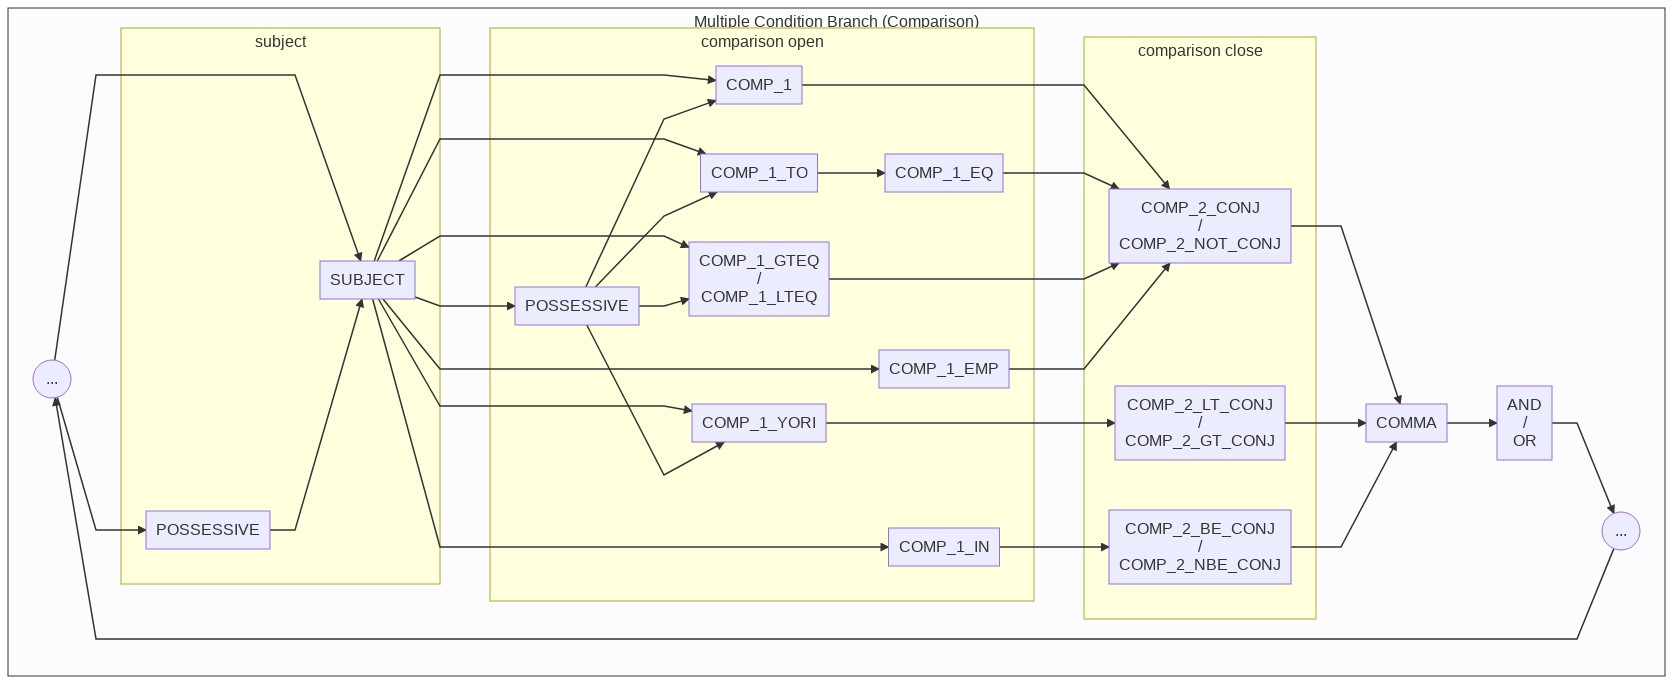
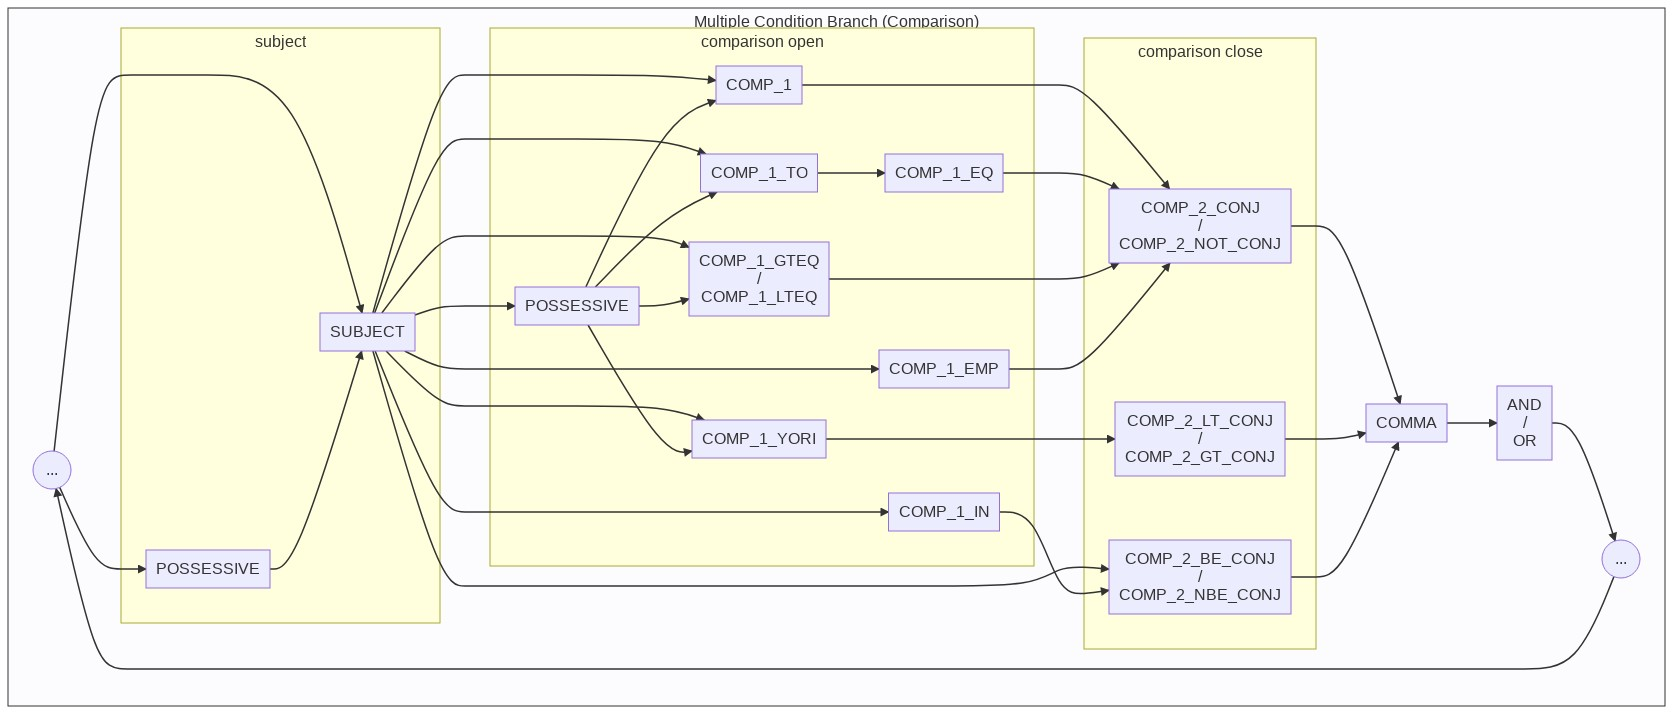
update nfsm and planning doc

diff --git a/documentation/planning.md b/documentation/planning.md
@@ -4,20 +4,6 @@
 
 ## v2.0.0
 
-### Try-Catch
-
-* Try: `試す`
-* Store error in special variable `例外`
-  * Reserve
-* ~~"Catch" is just an if-statement `もし 例外？ ならば`~~
-  - Nah, go with `SUBJECT COMP_2_BE` and tokenize as truthy
-* Abstract `with scope` logic (dup'd in if-statements, loops, whiles)
-* update about (`$?` like Perl)
-* update manual
-* update manual jp
-* update nfsm
-* update syntax
-
 ### Additional Math
 
 Exponentiation
@@ -79,6 +65,14 @@ Write an example for finding number of 1 bits in a number or binary representati
   * move Array / String Properties to just Properties
 * update tests
 * update syntax
+
+## Japanese Errors
+
+* error messages should be in Japanese
+* add option to make them English
+  - maybe `--lang=en`, default `=ja`
+  - group by folder `/ja`, `/en`, etc (allow possibility of other languages)
+* also update README for v2 stuff (look at merged PRs and compare)
 
 ## v2.1.0
 

diff --git a/documentation/nfsm.md b/documentation/nfsm.md
@@ -227,7 +227,7 @@ POSSESSIVE ? SUBJECT
 POSSESSIVE ? (
   ( COMP_1 | (COMP_1_TO COMP_1_EQ) | COMP_1_GTEQ | COMP_1_LTEQ | COMP_1_EMP ) ( COMP_2 | COMP_2_NOT )
   | COMP_1_YORI ( COMP_2_LT | COMP_2_GT )
-  | COMP_1_IN ( COMP_2_BE | COMP_2_NBE )
+  | COMP_1_IN ? ( COMP_2_BE | COMP_2_NBE )
 )
 EOL
 ```
@@ -302,7 +302,7 @@ graph LR
   POSSESSIVE ? (
     ( COMP_1 | ( COMP_1_TO COMP_1_EQ ) | COMP_1_GTEQ | COMP_1_LTEQ | COMP_1_EMP ) ( COMP_2_CONJ | COMP_2_NOT_CONJ )
     | COMP_1_YORI ( COMP_2_LT_CONJ | COMP_2_GT_CONJ )
-    | COMP_1_IN ( COMP_2_BE_CONJ | COMP_2_NBE_CONJ )
+    | COMP_1_IN ? ( COMP_2_BE_CONJ | COMP_2_NBE_CONJ )
   )
   COMMA
   ( AND | OR )
